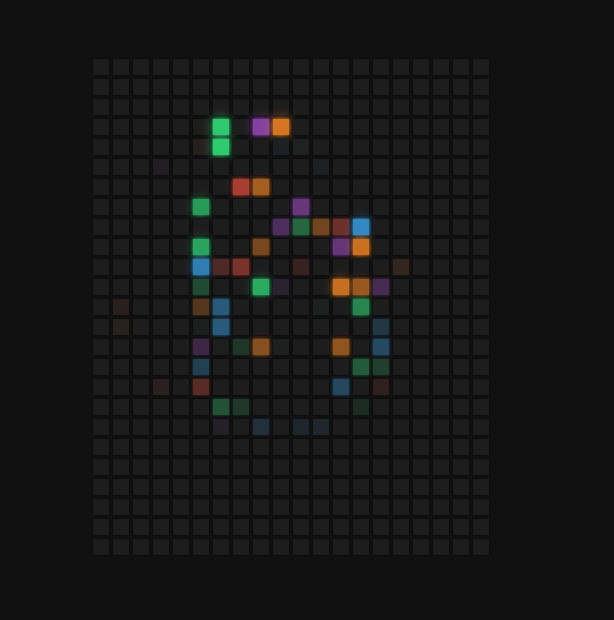
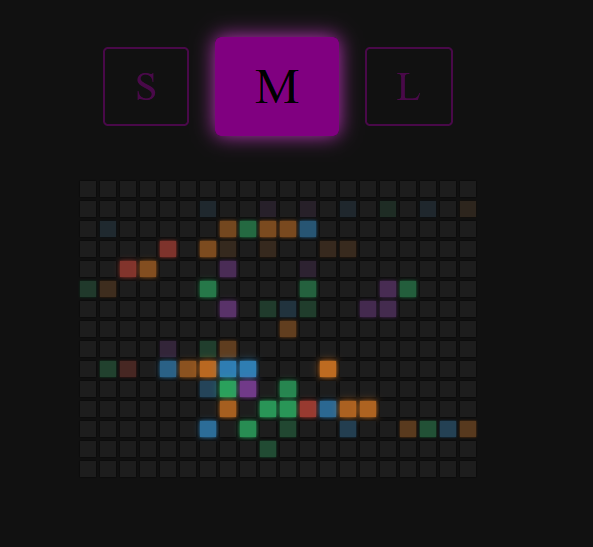
update. add size switcher

diff --git a/hover-board/style.css b/hover-board/style.css
@@ -1,199 +1,72 @@
-@import url('https://fonts.googleapis.com/css?family=Muli&display=swap');
+@import url("https://fonts.googleapis.com/css?family=Muli&display=swap");
 
 * {
-	box-sizing: border-box;
+  box-sizing: border-box;
 }
 
 body {
-	background: #111;
-	margin: 0;
-	display: flex;
-	align-items: center;
-	justify-content: center;
-	height: 100vh;
+  background: #111;
+  margin: 0;
 }
 
 #container {
-	display: flex;
-	align-items: center;
-	justify-content: center;
-	flex-wrap: wrap;
-	max-width: 400px;
+  display: flex;
+  align-items: center;
+  justify-content: center;
+  margin: 0 auto;
+  flex-wrap: wrap;
+  max-width: 400px;
+  max-height: 80vh;
 }
 
 .square {
-	background-color: #1d1d1d;
-	box-shadow: 0 0 2px #000;
-	margin: 2px;
-	width: 16px;
-	height: 16px;
-	transition: 2s ease;
+  background-color: #1d1d1d;
+  box-shadow: 0 0 2px #000;
+  margin: 2px;
+  width: 16px;
+  height: 16px;
+  transition: 5s ease;
 }
 
 .square:hover {
-	transition-duration: 0s;
+  transition-duration: 0s;
 }
 
 /* INSERT CSS HERE */
 
-
-/* SOCIAL PANEL CSS */
-.social-panel-container {
-	position: fixed;
-	right: 0;
-	bottom: 80px;
-	transform: translateX(100%);
-	transition: transform 0.4s ease-in-out;
+.panel {
+  height: 20vh;
+  width: 350px;
+  display: flex;
+  justify-content: space-between;
+  align-items: center;
+  margin: 0 auto;
 }
 
-.social-panel-container.visible {
-	transform: translateX(-10px);
+.panel-item:has(input:checked) {
+  transform: scale(1.25);
+  opacity: 1;
 }
 
-.social-panel {	
-	background-color: #fff;
-	border-radius: 16px;
-	box-shadow: 0 16px 31px -17px rgba(0,31,97,0.6);
-	border: 5px solid #001F61;
-	display: flex;
-	flex-direction: column;
-	justify-content: center;
-	align-items: center;
-	font-family: 'Muli';
-	position: relative;
-	height: 169px;	
-	width: 370px;
-	max-width: calc(100% - 10px);
+.panel-item {
+  opacity: 0.5;
 }
 
-.social-panel button.close-btn {
-	border: 0;
-	color: #97A5CE;
-	cursor: pointer;
-	font-size: 20px;
-	position: absolute;
-	top: 5px;
-	right: 5px;
+.panel-item label {
+  padding: 15px 30px;
+  color: purple;
+  border-radius: 5px;
+  border: 2px solid purple;
+  cursor: pointer;
+  font-size: 2.5rem;
 }
 
-.social-panel button.close-btn:focus {
-	outline: none;
+.panel-item input[type="radio"] {
+  display: none;
 }
 
-.social-panel p {
-	background-color: #001F61;
-	border-radius: 0 0 10px 10px;
-	color: #fff;
-	font-size: 14px;
-	line-height: 18px;
-	padding: 2px 17px 6px;
-	position: absolute;
-	top: 0;
-	left: 50%;
-	margin: 0;
-	transform: translateX(-50%);
-	text-align: center;
-	width: 235px;
-}
-
-.social-panel p i {
-	margin: 0 5px;
-}
-
-.social-panel p a {
-	color: #FF7500;
-	text-decoration: none;
-}
-
-.social-panel h4 {
-	margin: 20px 0;
-	color: #97A5CE;	
-	font-family: 'Muli';	
-	font-size: 14px;	
-	line-height: 18px;
-	text-transform: uppercase;
-}
-
-.social-panel ul {
-	display: flex;
-	list-style-type: none;
-	padding: 0;
-	margin: 0;
-}
-
-.social-panel ul li {
-	margin: 0 10px;
-}
-
-.social-panel ul li a {
-	border: 1px solid #DCE1F2;
-	border-radius: 50%;
-	color: #001F61;
-	font-size: 20px;
-	display: flex;
-	justify-content: center;
-	align-items: center;
-	height: 50px;
-	width: 50px;
-	text-decoration: none;
-}
-
-.social-panel ul li a:hover {
-	border-color: #FF6A00;
-	box-shadow: 0 9px 12px -9px #FF6A00;
-}
-
-.floating-btn {
-	border-radius: 26.5px;
-	background-color: #001F61;
-	border: 1px solid #001F61;
-	box-shadow: 0 16px 22px -17px #03153B;
-	color: #fff;
-	cursor: pointer;
-	font-size: 16px;
-	line-height: 20px;
-	padding: 12px 20px;
-	position: fixed;
-	bottom: 20px;
-	right: 20px;
-	z-index: 999;
-}
-
-.floating-btn:hover {
-	background-color: #ffffff;
-	color: #001F61;
-}
-
-.floating-btn:focus {
-	outline: none;
-}
-
-.floating-text {
-	background-color: #001F61;
-	border-radius: 10px 10px 0 0;
-	color: #fff;
-	font-family: 'Muli';
-	padding: 7px 15px;
-	position: fixed;
-	bottom: 0;
-	left: 50%;
-	transform: translateX(-50%);
-	text-align: center;
-	z-index: 998;
-}
-
-.floating-text a {
-	color: #FF7500;
-	text-decoration: none;
-}
-
-@media screen and (max-width: 480px) {
-
-	.social-panel-container.visible {
-		transform: translateX(0px);
-	}
-	
-	.floating-btn {
-		right: 10px;
-	}
+.panel-item input[type="radio"]:checked ~ label {
+  color: black;
+  background-color: purple;
+  box-shadow: 0px 0px 15px 0px rgba(189, 53, 189, 1);
 }

diff --git a/hover-board/app.js b/hover-board/app.js
@@ -1,6 +1,9 @@
-const squareCount = 500;
 const defaultColor = "#1d1d1d";
 const colors = ["#e74c3c", "#8e44ad", "#3498db", "#e67e22", "#2ecc71"];
+const SizeS = 160;
+const SizeM = 300;
+const SizeL = 500;
+
 
 const container = document.querySelector("#container");
 
@@ -14,19 +17,41 @@ const getRandomColor = () => {
   return colors[Math.round(Math.random() * colors.length)];
 };
 
-for (let i = 0; i < squareCount; i++) {
-  const square = createSquare();
+function renderBoard(count) {
+  container.innerHTML = "";
+  for (let i = 0; i < count; i++) {
+    const square = createSquare();
 
-  square.addEventListener("mouseover", () => {
-    const color = getRandomColor();
-    square.style.backgroundColor = color;
-    square.style.boxShadow = `0 0 2px ${color}, 0 0 10px ${color}`;
-  });
+    square.addEventListener("mouseover", () => {
+      const color = getRandomColor();
+      square.style.backgroundColor = color;
+      square.style.boxShadow = `0 0 2px ${color}, 0 0 10px ${color}`;
+    });
 
-  square.addEventListener("mouseleave", () => {
-    square.style.backgroundColor = defaultColor;
-    square.style.boxShadow = `0 0 2px #000`;
-  });
+    square.addEventListener("mouseleave", () => {
+      square.style.backgroundColor = defaultColor;
+      square.style.boxShadow = `0 0 2px #000`;
+    });
 
-  container.appendChild(square);
+    container.appendChild(square);
+  }
 }
+
+const radioButtons = document.querySelectorAll(".panel input[type=radio]");
+for (const sizeBtn of radioButtons) {
+  sizeBtn.onchange = () => {
+    switch (sizeBtn.value) {
+      case "S":
+        renderBoard(SizeS);
+        break;
+      case "M":
+        renderBoard(SizeM);
+        break;
+      case "L":
+        renderBoard(SizeL);
+        break;
+    }
+  };
+}
+
+renderBoard(SizeS);

diff --git a/hover-board/index.html b/hover-board/index.html
@@ -8,6 +8,20 @@
     <link rel="stylesheet" href="style.css">
   </head>
   <body>
+    <div class="panel">
+      <div class="panel-item">
+        <input id="size-s" type="radio" name="panel" value="S" checked>
+        <label for="size-s">S</label>
+      </div>
+      <div class="panel-item">
+        <input id="size-m" type="radio" name="panel" value="M">
+        <label for="size-m">M</label>
+      </div>
+      <div class="panel-item">
+        <input id="size-l" type="radio" name="panel" value="L">
+        <label for="size-l">L</label>
+      </div>
+    </div>
     <div id="container"></div>
 
     <script src="app.js"></script>
